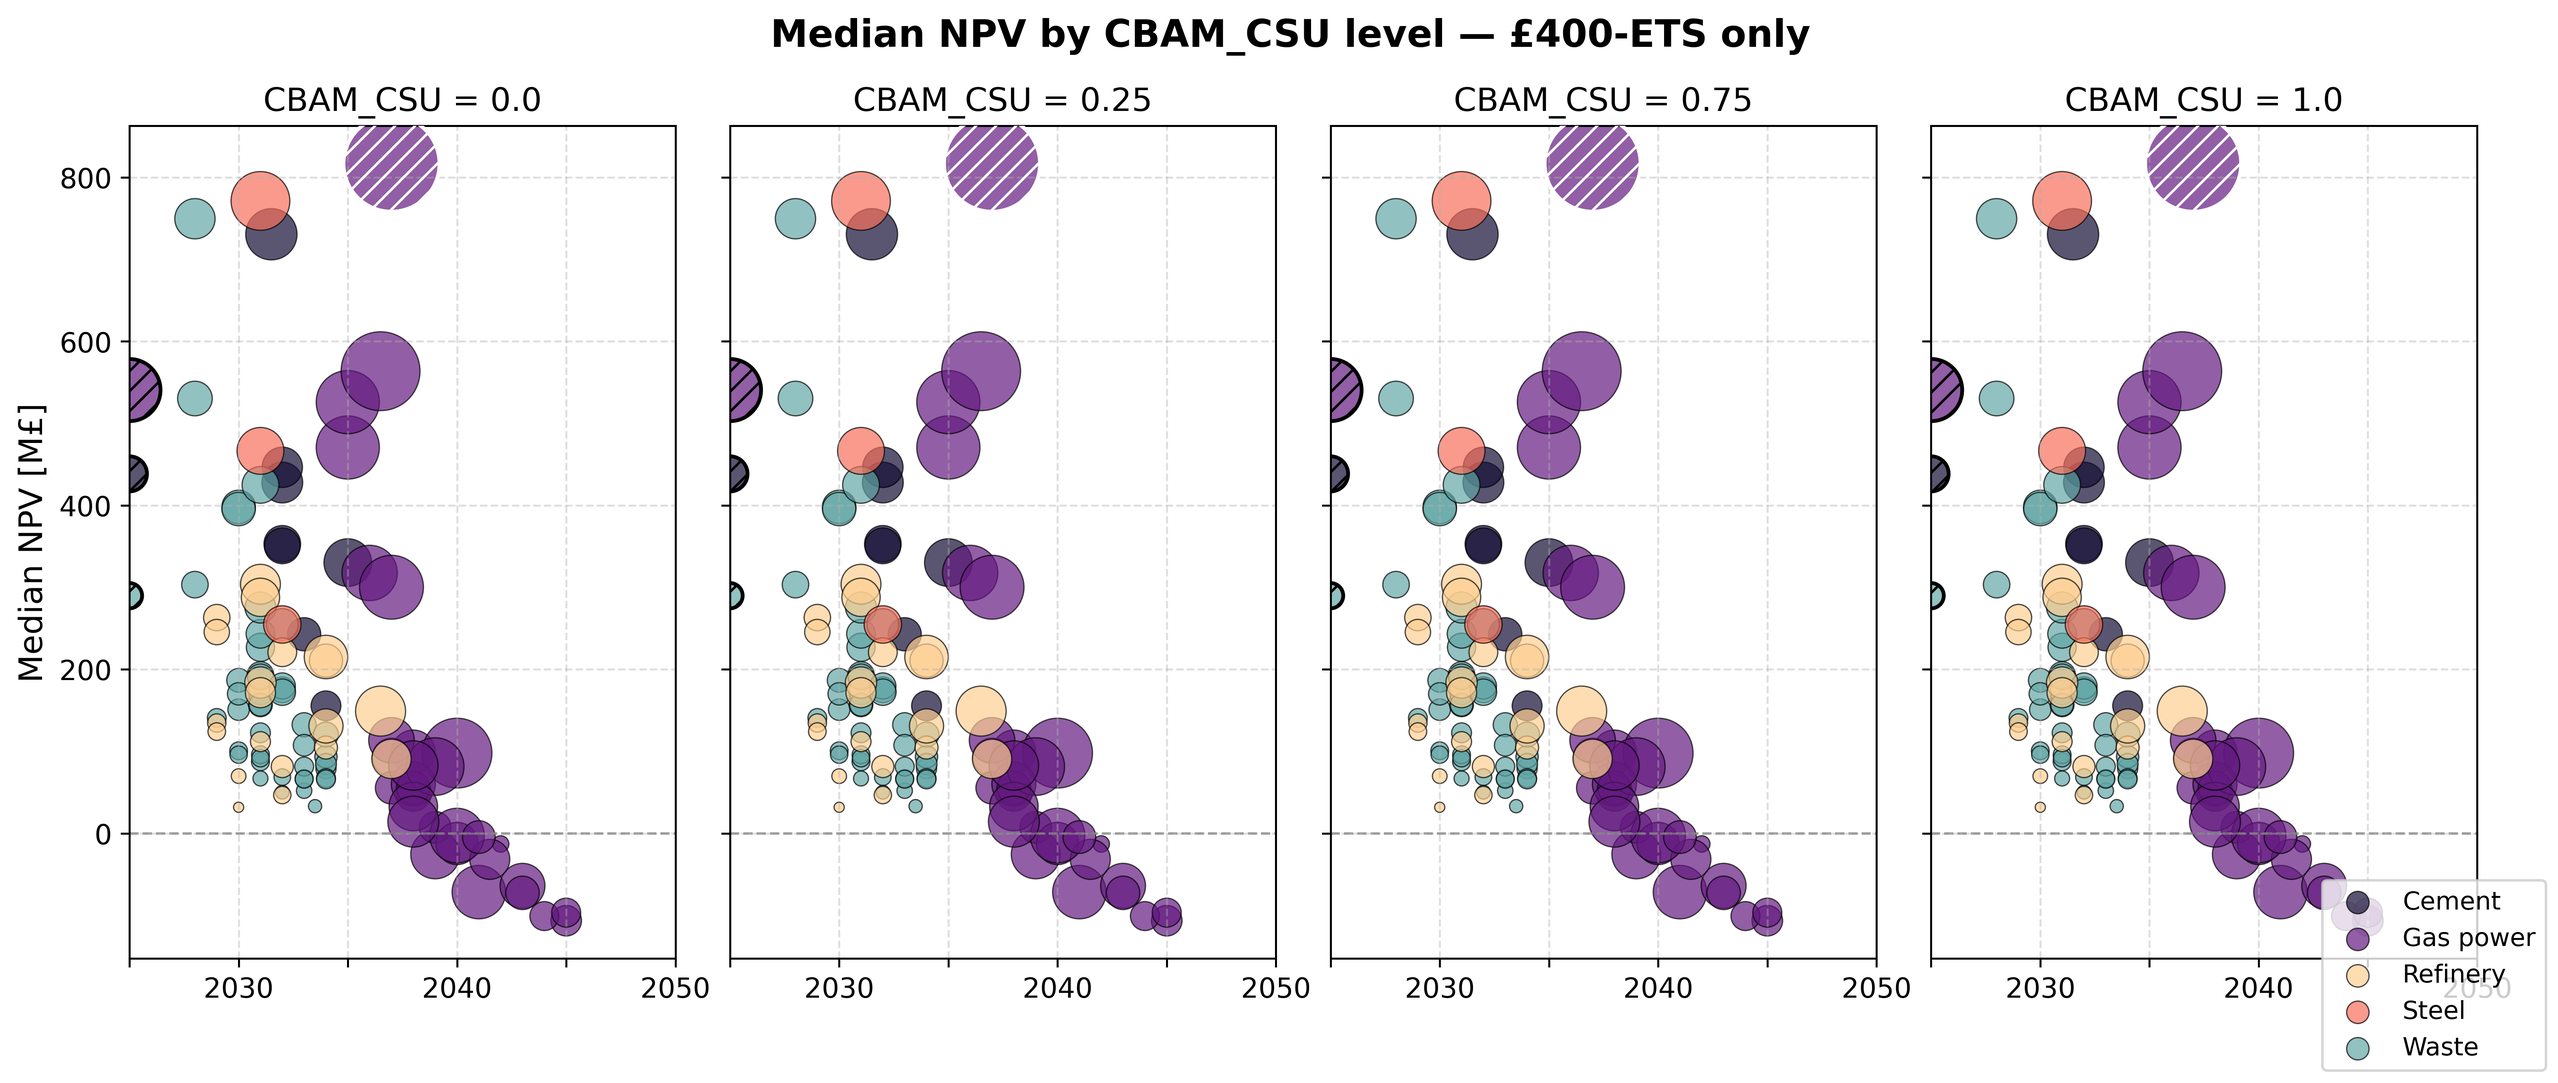
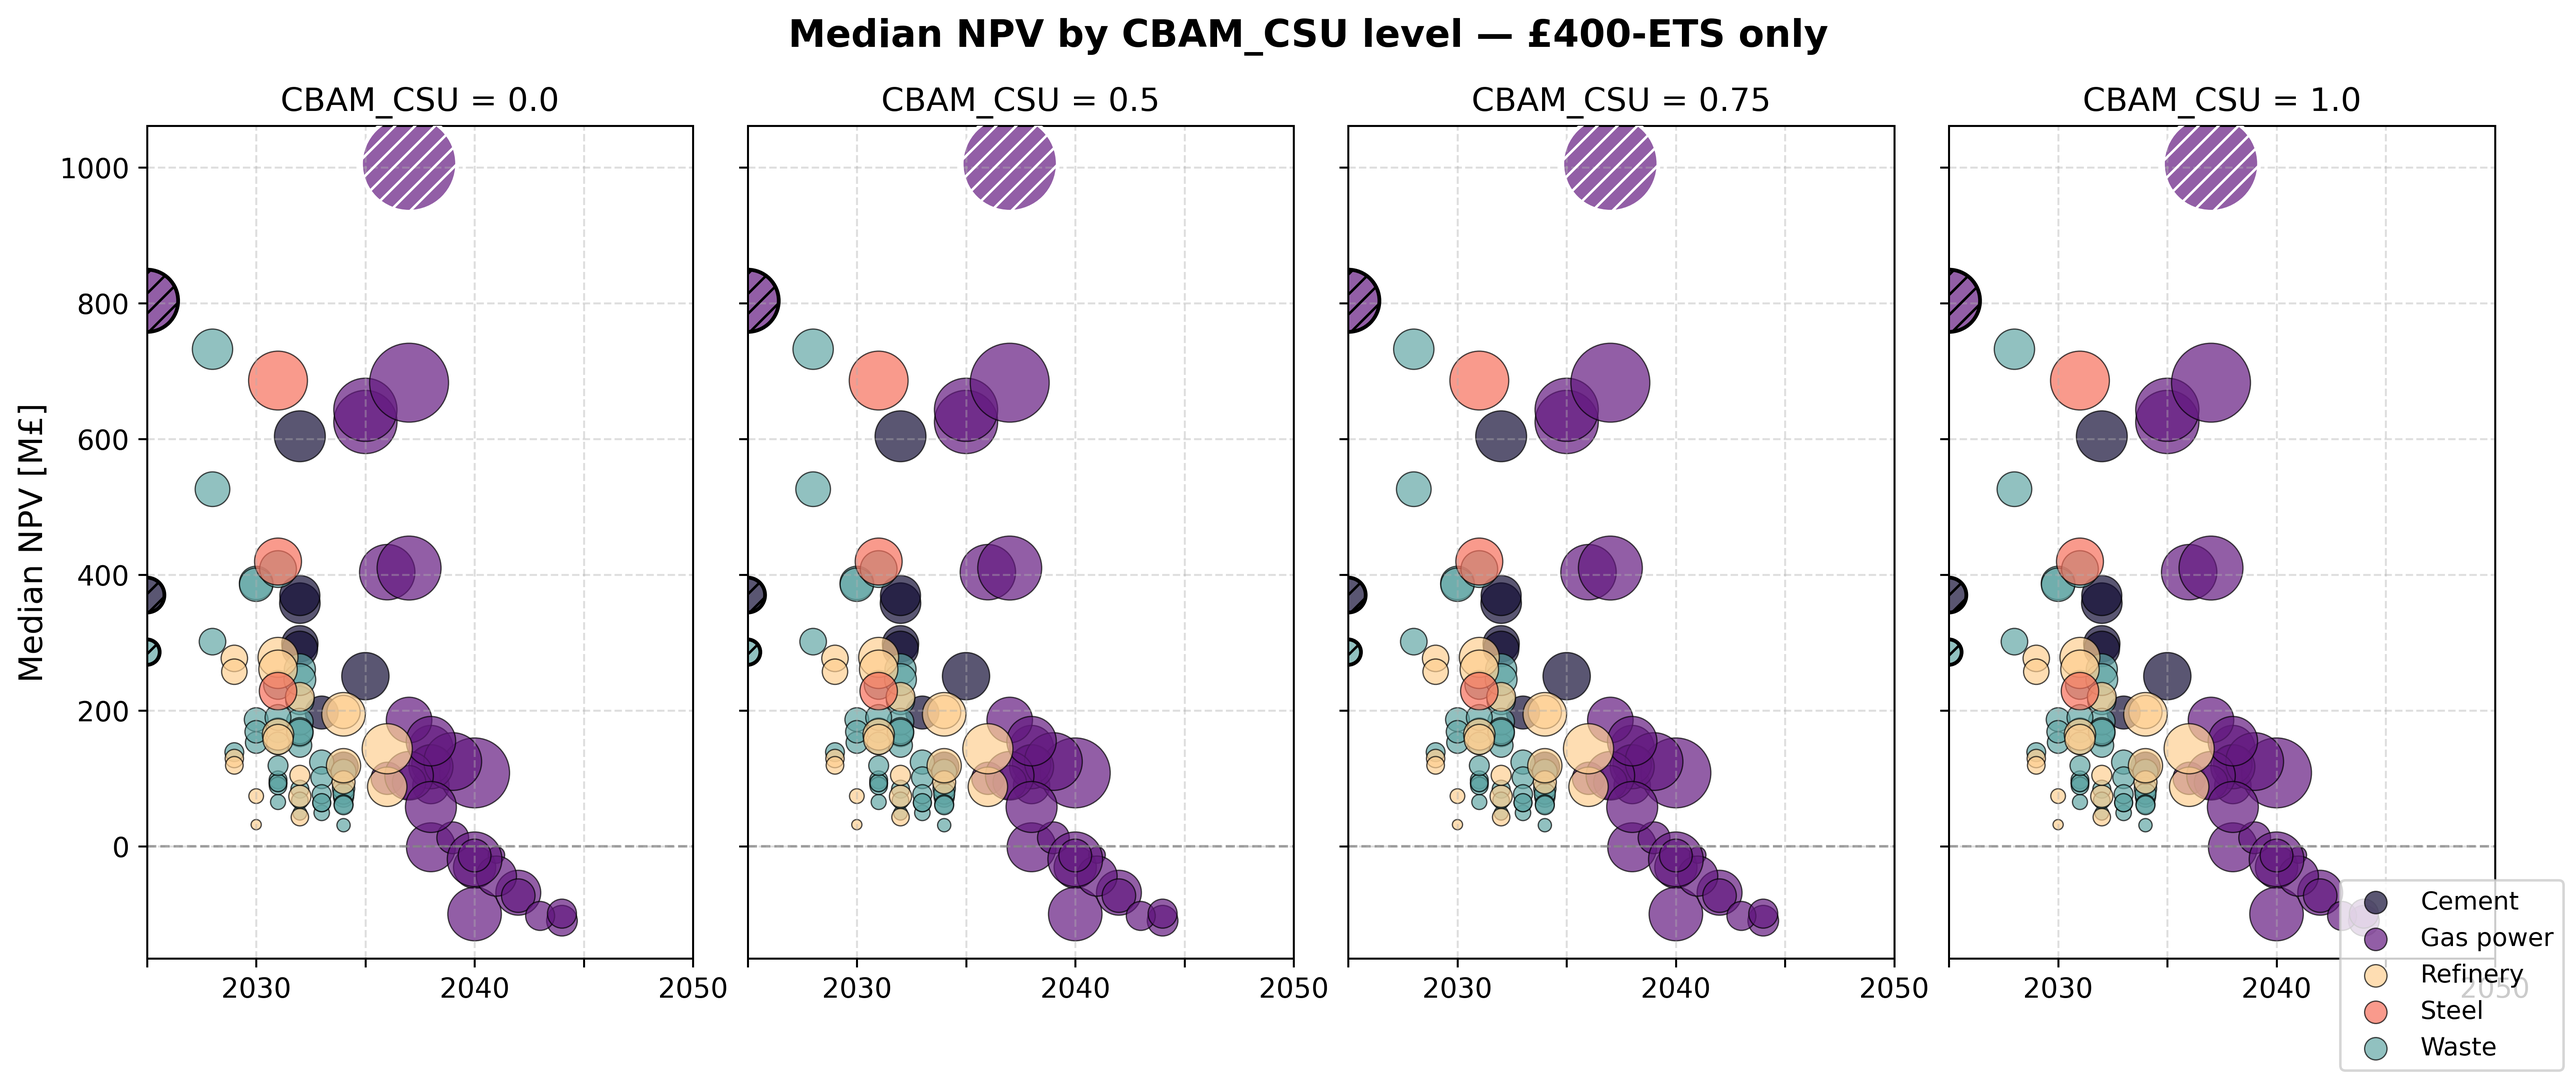
Test runs

diff --git a/ctbo.py b/ctbo.py
@@ -399,7 +399,7 @@ def simulate_ctbo(
     DACCS_SCENARIO = '£322', # [£/tCO2] 322, 391, 7th Carbon Budget
     DACCS_MAX_ANNUAL = 8800, # [ktCO2/y] maximum DACCS capacity that can be added per year before 2050
     CfD_INEFFICIENCY = 0.2, # [-]
-    CBAM_CSU = 1, # [-] % of CSU price passed on to the consumer
+    CBAM_CSU = 1, # [-] % strength, i.e., the percentage of CSU price passed on to the consumer
     
     START_YEAR = 2025,
     END_YEAR = 2055,

diff --git a/controller.py b/controller.py
@@ -144,7 +144,7 @@ if __name__ == "__main__":
     ]
 
     # Run experiments
-    n_scenarios = 50
+    n_scenarios = 5
     n_policies = 40
     
     results = perform_experiments(
